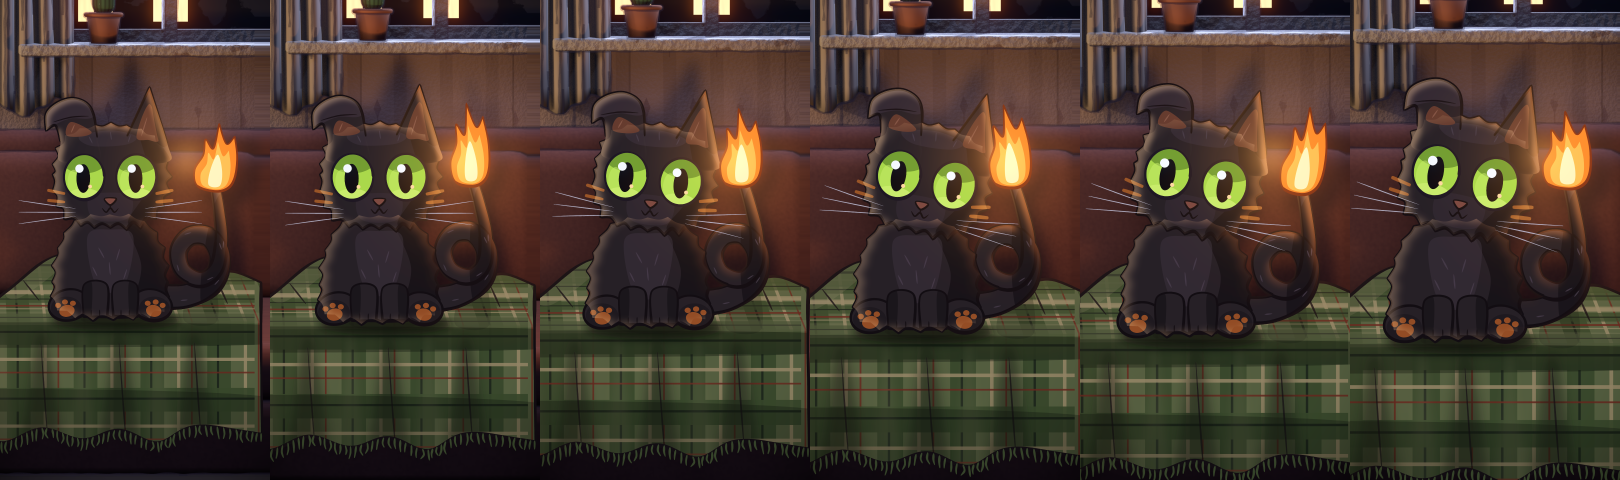
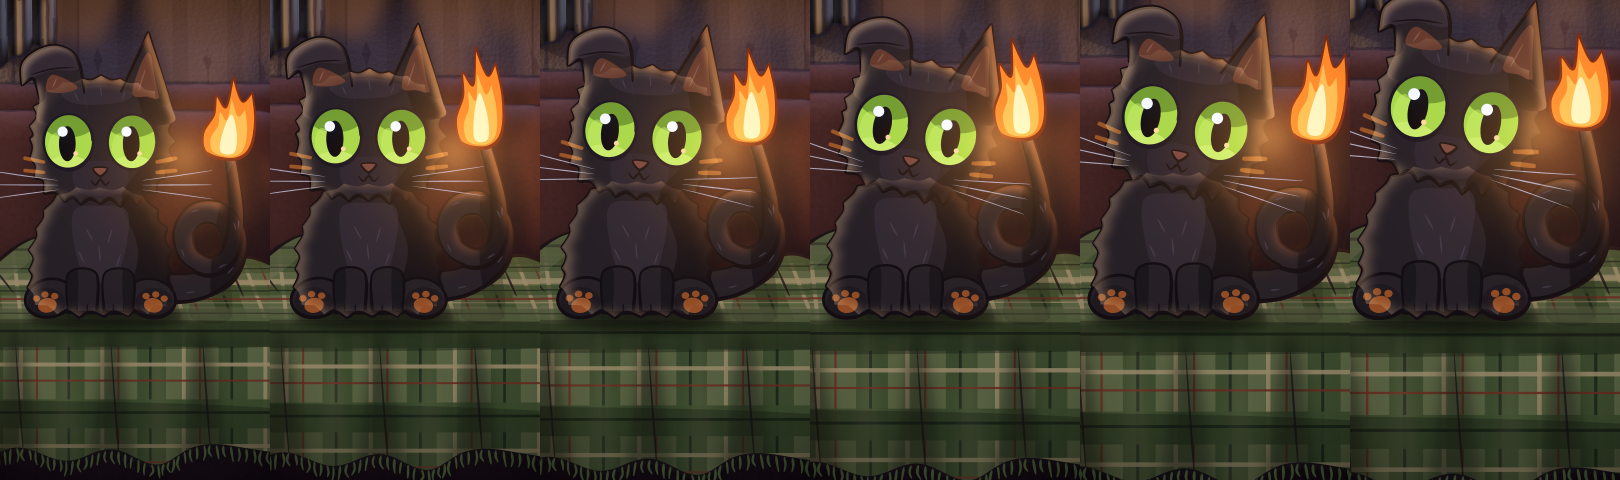
Reel 40 room: s18 camera keeps the flame in frame; sheets
Claude-Session: https://claude.ai/code/session_01XV6HF6jiGqvYrvJHf9pp9H

diff --git a/videos/40_66_dney/story/room/assemble.py b/videos/40_66_dney/story/room/assemble.py
@@ -51,7 +51,7 @@ CAM_DEFAULT = {
     's03': [[515, 1010, 1600], [525, 995, 1470]],
     's05': [[515, 1030, 1560], [510, 1035, 1660]],
     's06': [[865, 1135, 720], [868, 1148, 640]],    # крупно; лапы кота выше полосы субтитров
-    's18': [[748, 1090, 1010], [750, 1082, 950]],
+    's18': [[760, 1090, 1010], [772, 1082, 950]],   # огонёк целиком в кадре
 }
 SHAKE = {}   # тряска: (время, амплитуда px выхода, затухание с, Гц)
 CLOCK = {'s03': '0700', 's05': '2115', 's06': '2115', 's18': '2115'}   # s03 — по timing.clock_text
